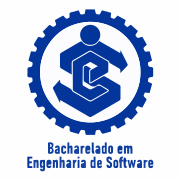
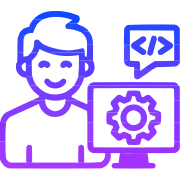
Updates

diff --git a/sw.js b/sw.js
@@ -1,1 +1,1 @@
-if(!self.define){let e,s={};const n=(n,i)=>(n=new URL(n+".js",i).href,s[n]||new Promise((s=>{if("document"in self){const e=document.createElement("script");e.src=n,e.onload=s,document.head.appendChild(e)}else e=n,importScripts(n),s()})).then((()=>{let e=s[n];if(!e)throw new Error(`Module ${n} didn’t register its module`);return e})));self.define=(i,o)=>{const c=e||("document"in self?document.currentScript.src:"")||location.href;if(s[c])return;let t={};const r=e=>n(e,c),a={module:{uri:c},exports:t,require:r};s[c]=Promise.all(i.map((e=>a[e]||r(e)))).then((e=>(o(...e),t)))}}define(["./workbox-b833909e"],(function(e){"use strict";self.skipWaiting(),e.clientsClaim(),e.precacheAndRoute([{url:"404.html",revision:"7321cecaf93a11662e540a9192cc2a72"},{url:"App.css",revision:"d41d8cd98f00b204e9800998ecf8427e"},{url:"assets/index-BBI2t-TS.css",revision:null},{url:"assets/index-mOpwGxqC.js",revision:null},{url:"index.html",revision:"e9de9a231877c66a4ebc3af7a92c7887"},{url:"registerSW.js",revision:"f80f3b901651dae9b684d26d4468138c"},{url:"apple-touch-icon.png",revision:"a5ea0eb10e7d614032ea7722c70fc4c8"},{url:"logo192.png",revision:"53676cdd420802bdf0b86dc0df401e93"},{url:"logo512.png",revision:"0958a9876446782563e56d0e4bb5ce03"},{url:"manifest.webmanifest",revision:"bc46342df0b9db1cb6d85f1ddbe3487a"}],{}),e.cleanupOutdatedCaches(),e.registerRoute(new e.NavigationRoute(e.createHandlerBoundToURL("index.html"))),e.registerRoute(/^https:\/\/fonts\.googleapis\.com\/.*/i,new e.CacheFirst({cacheName:"google-fonts-cache",plugins:[new e.ExpirationPlugin({maxEntries:10,maxAgeSeconds:31536e3}),new e.CacheableResponsePlugin({statuses:[0,200]})]}),"GET"),e.registerRoute(/^https:\/\/fonts\.gstatic\.com\/.*/i,new e.CacheFirst({cacheName:"google-fonts-webfonts-cache",plugins:[new e.ExpirationPlugin({maxEntries:10,maxAgeSeconds:31536e3}),new e.CacheableResponsePlugin({statuses:[0,200]})]}),"GET"),e.registerRoute(/\.(?:png|gif|jpg|jpeg|svg)$/,new e.CacheFirst({cacheName:"images-cache",plugins:[new e.ExpirationPlugin({maxEntries:60,maxAgeSeconds:2592e3})]}),"GET")}));
+if(!self.define){let e,s={};const n=(n,i)=>(n=new URL(n+".js",i).href,s[n]||new Promise((s=>{if("document"in self){const e=document.createElement("script");e.src=n,e.onload=s,document.head.appendChild(e)}else e=n,importScripts(n),s()})).then((()=>{let e=s[n];if(!e)throw new Error(`Module ${n} didn’t register its module`);return e})));self.define=(i,o)=>{const t=e||("document"in self?document.currentScript.src:"")||location.href;if(s[t])return;let c={};const r=e=>n(e,t),a={module:{uri:t},exports:c,require:r};s[t]=Promise.all(i.map((e=>a[e]||r(e)))).then((e=>(o(...e),c)))}}define(["./workbox-b833909e"],(function(e){"use strict";self.skipWaiting(),e.clientsClaim(),e.precacheAndRoute([{url:"404.html",revision:"7321cecaf93a11662e540a9192cc2a72"},{url:"App.css",revision:"d41d8cd98f00b204e9800998ecf8427e"},{url:"assets/index-BBI2t-TS.css",revision:null},{url:"assets/index-mOpwGxqC.js",revision:null},{url:"index.html",revision:"e9de9a231877c66a4ebc3af7a92c7887"},{url:"registerSW.js",revision:"f80f3b901651dae9b684d26d4468138c"},{url:"apple-touch-icon.png",revision:"e2c960bf649913f9f4d34f9db43be9d5"},{url:"logo192.png",revision:"5b65e4f3c296040115f419fbc99d3d2e"},{url:"logo512.png",revision:"18964fb06c7507332fbe7fca697303aa"},{url:"manifest.webmanifest",revision:"bc46342df0b9db1cb6d85f1ddbe3487a"}],{}),e.cleanupOutdatedCaches(),e.registerRoute(new e.NavigationRoute(e.createHandlerBoundToURL("index.html"))),e.registerRoute(/^https:\/\/fonts\.googleapis\.com\/.*/i,new e.CacheFirst({cacheName:"google-fonts-cache",plugins:[new e.ExpirationPlugin({maxEntries:10,maxAgeSeconds:31536e3}),new e.CacheableResponsePlugin({statuses:[0,200]})]}),"GET"),e.registerRoute(/^https:\/\/fonts\.gstatic\.com\/.*/i,new e.CacheFirst({cacheName:"google-fonts-webfonts-cache",plugins:[new e.ExpirationPlugin({maxEntries:10,maxAgeSeconds:31536e3}),new e.CacheableResponsePlugin({statuses:[0,200]})]}),"GET"),e.registerRoute(/\.(?:png|gif|jpg|jpeg|svg)$/,new e.CacheFirst({cacheName:"images-cache",plugins:[new e.ExpirationPlugin({maxEntries:60,maxAgeSeconds:2592e3})]}),"GET")}));
